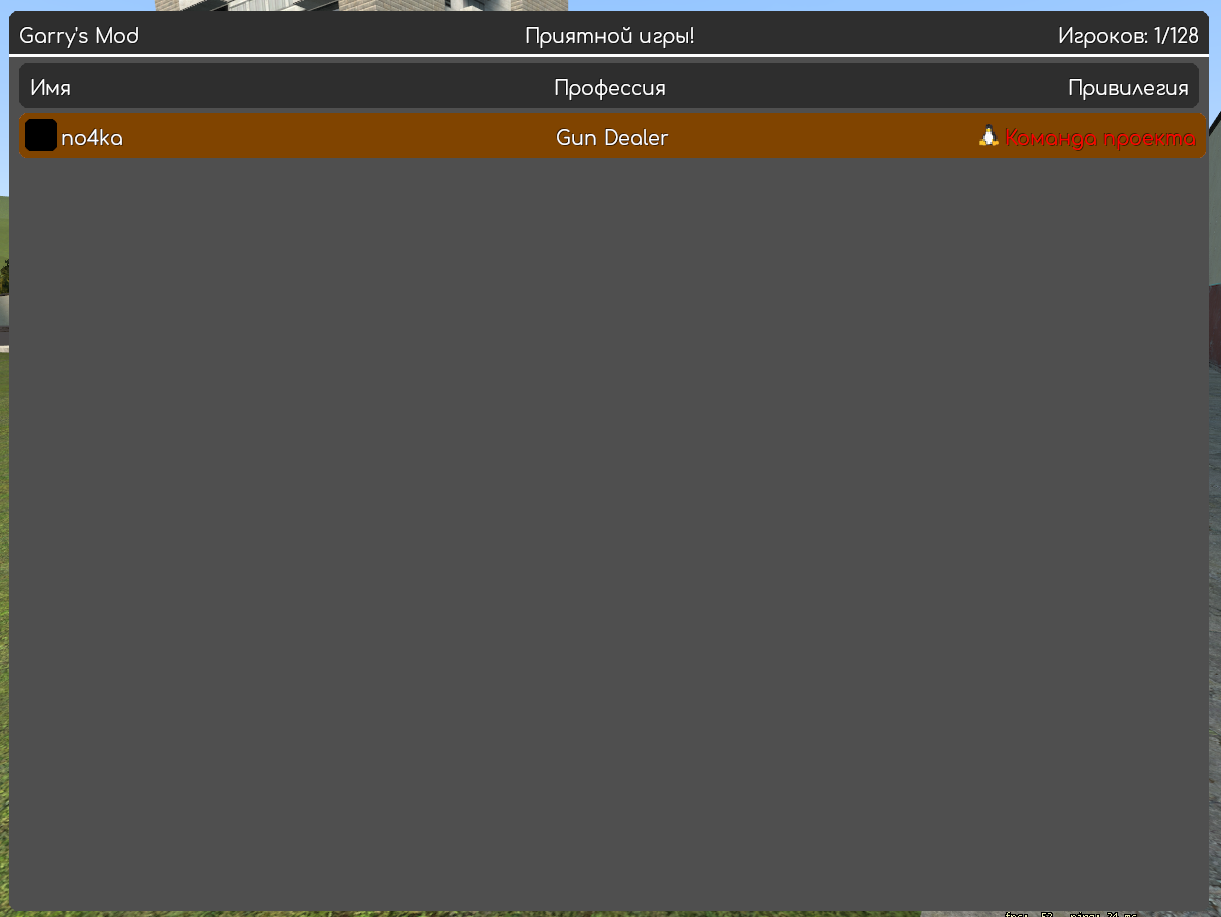
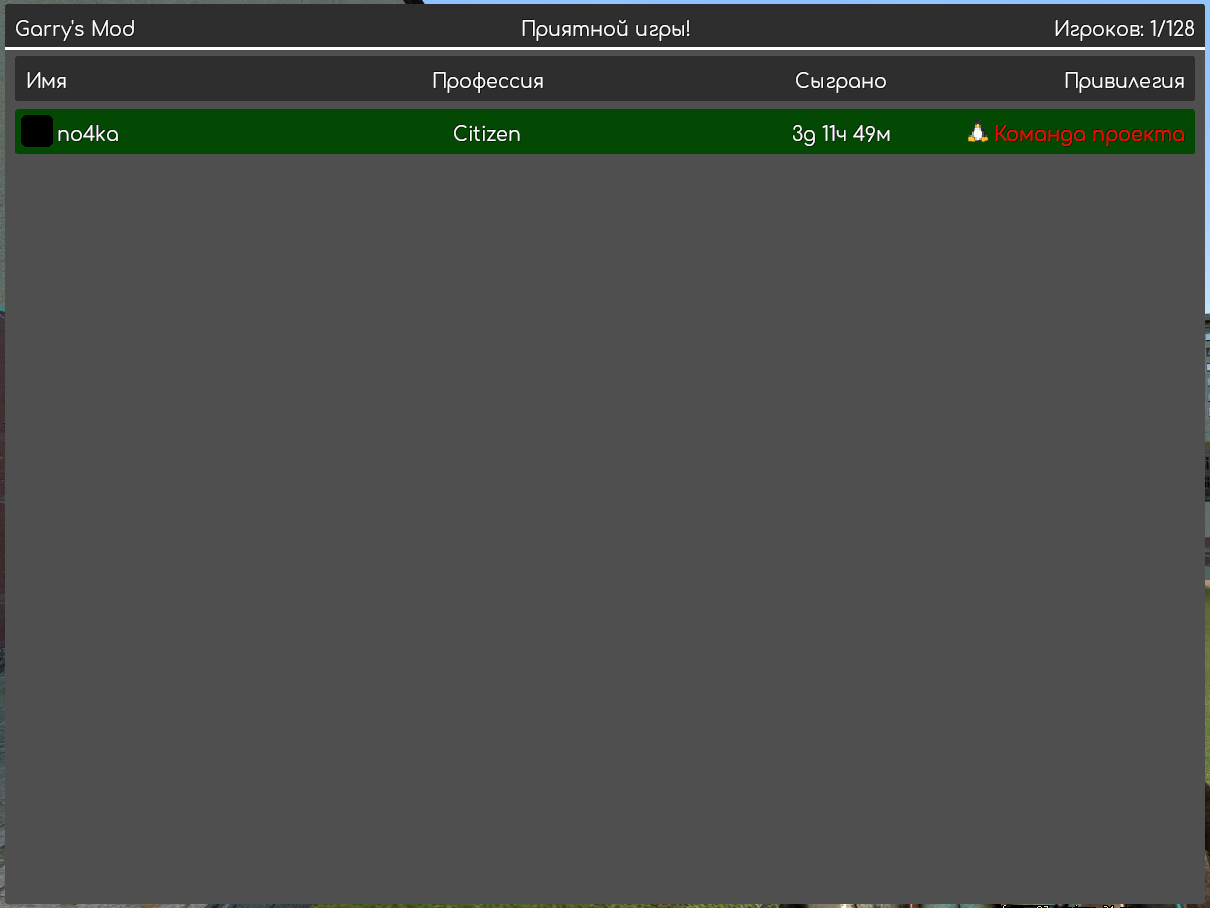
master

Changed region(s): [[0.0, 0.0, 1.0, 1.0]]

diff --git a/screenshots/f4/README.md b/screenshots/f4/README.md
@@ -1,0 +1,45 @@
+# F4
+
+# Общий вид
+![Общий_вид](main.png)
+
+## Работы
+
+![Категории](jobs.png)
+
+### Категории
+
+![Категории](categories.png)
+
+Каждая категория работы имеет свой "столбик", который может скрываться.
+
+### Оружия
+
+![Оружия](weapons.png)
+
+Отображает оружия у профессии. Также имеет прокрутку, если оружия много.
+В конфиг файле есть таблица отключения отображения оружия.
+
+### Описание
+
+![Описание](description.png)
+
+Описание к важдой профессии. Также если много, имеет скролл.
+
+### Модели
+
+![Модели](modelselection.png)
+
+Если моделей у профессии несколько имеется возможность выбора модели.
+
+## Вещи
+
+![Вещи](entities.png)
+
+## Коробки
+
+![Коробки](shipments.png)
+
+## Продукты
+
+![Продукты](food.png)

diff --git a/README.md b/README.md
@@ -1,2 +1,15 @@
-# nui
-no4ka UI
+# NUI 
+no4ka UI 8)
+Этот UI предназначен для DarkRP
+
+Всем привет. Меня зовут no4ka и это мой первый UI. Не судите строго, так как делал это всё с набором знаний как у первоклашки в 9 классе.
+
+Если же вы нашли ошибку или способ оптимизировать код или же хотите задать вопрос, то пишите мне в [ЛС Steam](https://steamcommunity.com/id/x_no4ka_x)
+
+## F4
+![Общий_вид](screenshots/f4/main.png)
+[Скриншоты](screenshots/f4)
+
+## Scoreboard
+![Общий_вид](screenshots/scoreboard/main.png)
+[Скриншоты](screenshots/scoreboard)

diff --git a/screenshots/README.md b/screenshots/README.md
@@ -1,0 +1,11 @@
+# Скриншоты
+
+Тут вы найдёте внешний вид самого UI Изучите его внимательно, если что то не понравится, у вас всегда есть возможность написать мне [лично](https://steamcommunity.com/id/x_no4ka_x)
+
+## F4
+![Общий_вид](f4/main.png)
+[Скриншоты](f4)
+
+## Scoreboard
+![Общий_вид](scoreboard/main.png)
+[Скриншоты](scoreboard)

diff --git a/screenshots/scoreboard/README.md b/screenshots/scoreboard/README.md
@@ -1,0 +1,2 @@
+# nui
+no4ka UI
